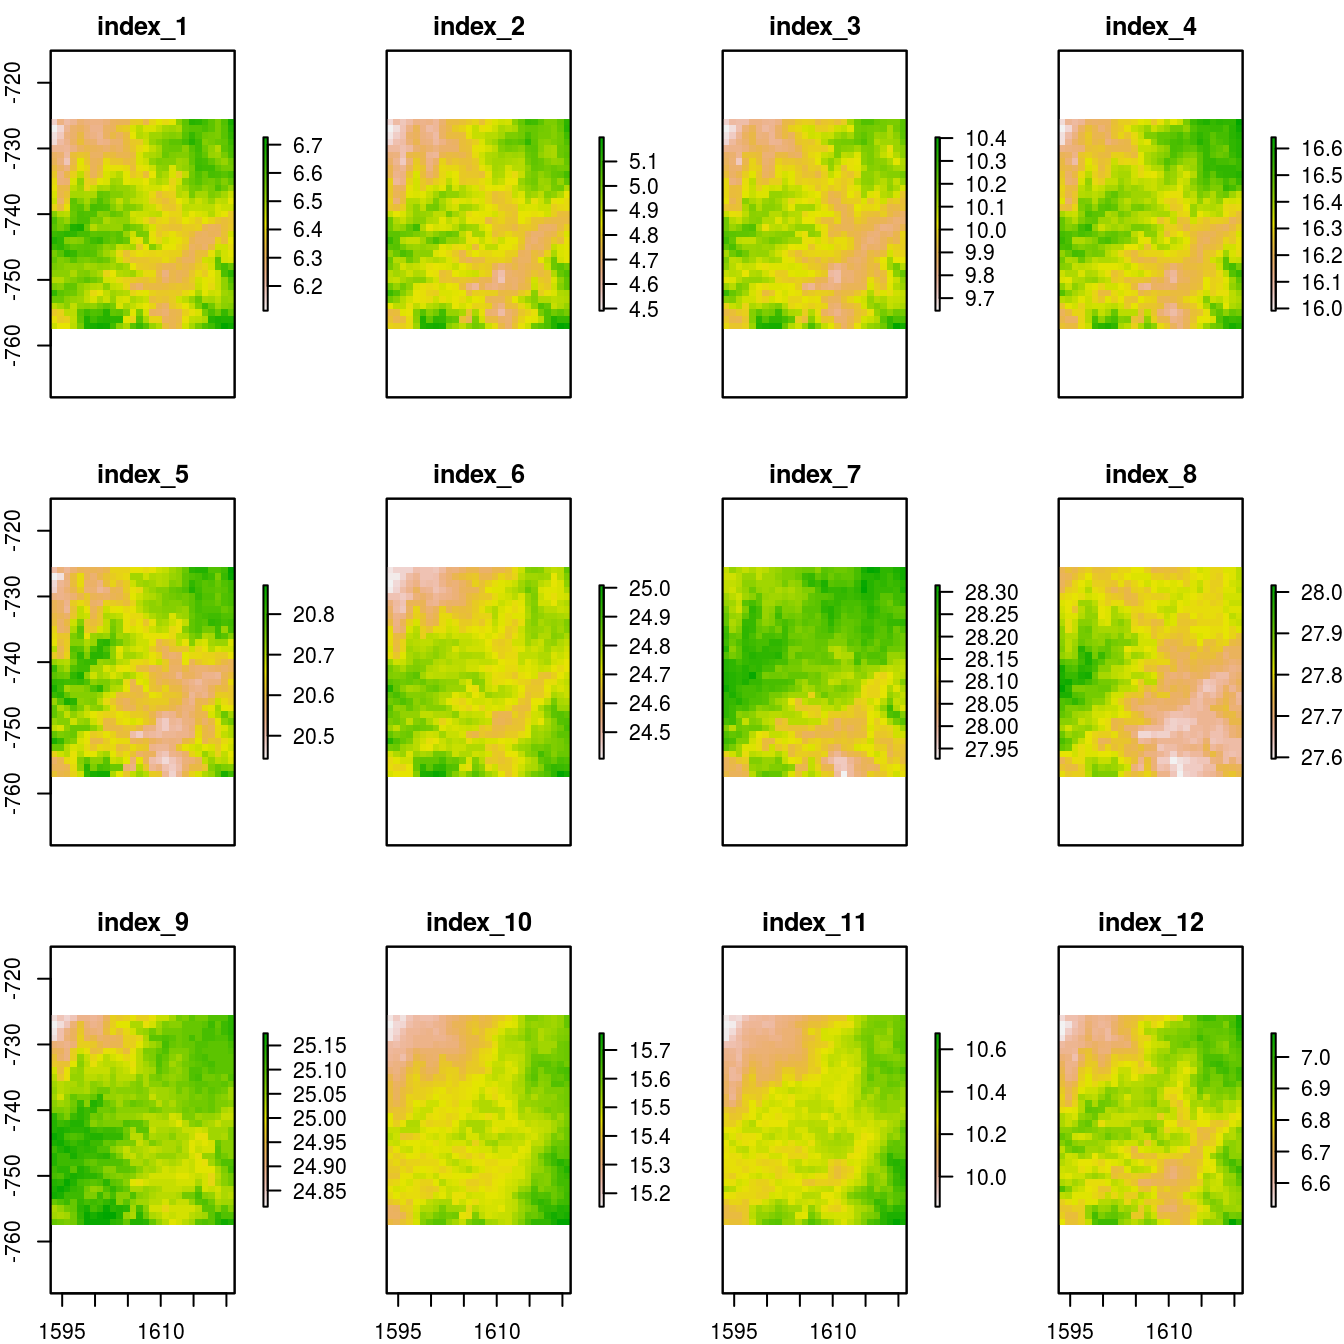
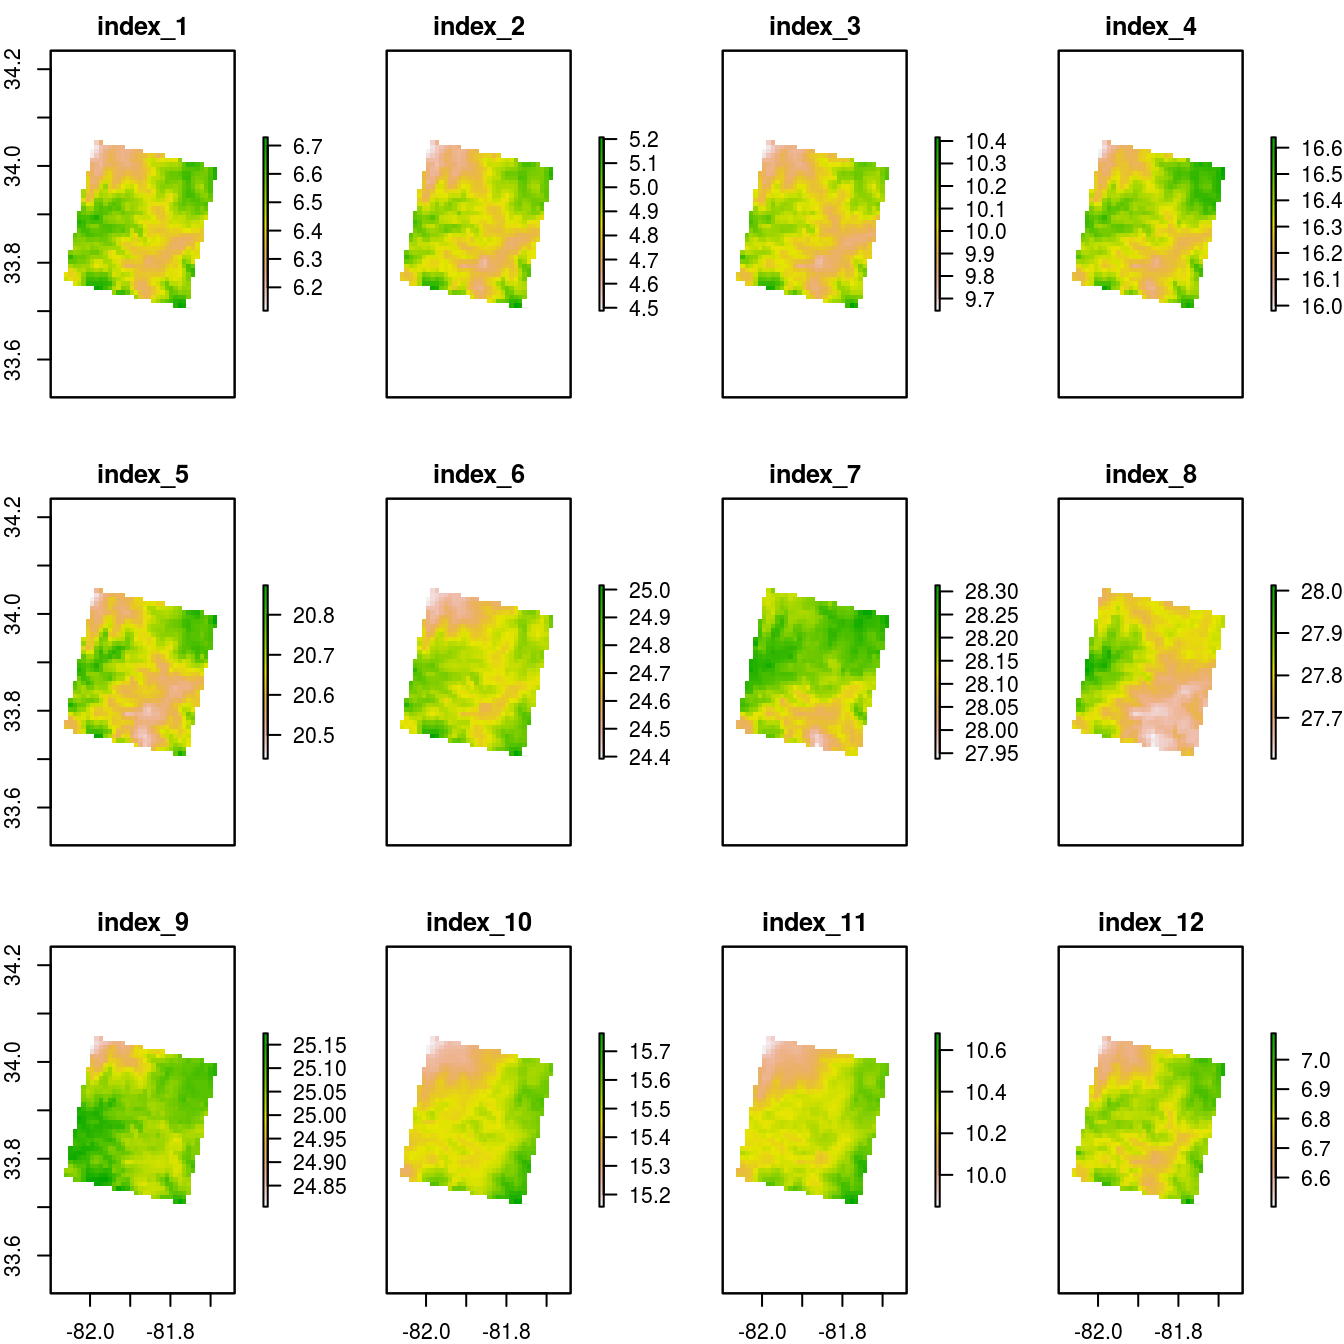
set correct projection

diff --git a/docs/articles/daymetr-vignette.html b/docs/articles/daymetr-vignette.html
@@ -266,7 +266,7 @@
 <div class="sourceCode" id="cb9"><pre class="sourceCode r"><code class="sourceCode r"><a class="sourceLine" id="cb9-1" data-line-number="1"><span class="co"># read in the demo data from the package for speed</span></a>
 <a class="sourceLine" id="cb9-2" data-line-number="2">r &lt;-<span class="st"> </span>raster<span class="op">::</span><span class="kw"><a href="https://www.rdocumentation.org/packages/raster/topics/stack">stack</a></span>(<span class="kw"><a href="https://www.rdocumentation.org/packages/base/topics/system.file">system.file</a></span>(<span class="dt">package =</span> <span class="st">"daymetr"</span>,<span class="st">"extdata/tmin_monavg_1980_ncss.nc"</span>))</a>
 <a class="sourceLine" id="cb9-3" data-line-number="3"></a>
-<a class="sourceLine" id="cb9-4" data-line-number="4"><span class="co"># to set the correct projection use</span></a>
+<a class="sourceLine" id="cb9-4" data-line-number="4"><span class="co"># to set the correct projection</span></a>
 <a class="sourceLine" id="cb9-5" data-line-number="5">raster<span class="op">::</span><span class="kw"><a href="https://www.rdocumentation.org/packages/raster/topics/projection">projection</a></span>(r) &lt;-<span class="st"> "+proj=lcc +lat_1=25 +lat_2=60 +lat_0=42.5 +lon_0=-100 +x_0=0 +y_0=0 +ellps=WGS84 +units=km +no_defs"</span></a>
 <a class="sourceLine" id="cb9-6" data-line-number="6"></a>
 <a class="sourceLine" id="cb9-7" data-line-number="7"><span class="co"># reproject to lat lon</span></a>
@@ -282,8 +282,15 @@
 <a class="sourceLine" id="cb10-4" data-line-number="4">                            <span class="dt">year =</span> <span class="dv">1980</span>,</a>
 <a class="sourceLine" id="cb10-5" data-line-number="5">                            <span class="dt">internal =</span> <span class="ot">TRUE</span>)</a>
 <a class="sourceLine" id="cb10-6" data-line-number="6"></a>
-<a class="sourceLine" id="cb10-7" data-line-number="7"><span class="co"># plot the mean temperature raster</span></a>
-<a class="sourceLine" id="cb10-8" data-line-number="8"><span class="kw"><a href="https://www.rdocumentation.org/packages/graphics/topics/plot">plot</a></span>(r_tmean)</a></code></pre></div>
+<a class="sourceLine" id="cb10-7" data-line-number="7"><span class="co"># to set the correct projection</span></a>
+<a class="sourceLine" id="cb10-8" data-line-number="8">raster<span class="op">::</span><span class="kw"><a href="https://www.rdocumentation.org/packages/raster/topics/projection">projection</a></span>(r_tmean) &lt;-<span class="st"> "+proj=lcc +lat_1=25 +lat_2=60 +lat_0=42.5 +lon_0=-100 +x_0=0 +y_0=0 +ellps=WGS84 +units=km +no_defs"</span></a>
+<a class="sourceLine" id="cb10-9" data-line-number="9"></a>
+<a class="sourceLine" id="cb10-10" data-line-number="10"><span class="co"># reproject to lat lon</span></a>
+<a class="sourceLine" id="cb10-11" data-line-number="11">r_tmean &lt;-<span class="st"> </span>raster<span class="op">::</span><span class="kw"><a href="https://www.rdocumentation.org/packages/raster/topics/projectRaster">projectRaster</a></span>(r_tmean, <span class="dt">crs =</span> <span class="st">"+init=epsg:4326"</span>)</a>
+<a class="sourceLine" id="cb10-12" data-line-number="12"></a>
+<a class="sourceLine" id="cb10-13" data-line-number="13"></a>
+<a class="sourceLine" id="cb10-14" data-line-number="14"><span class="co"># plot the mean temperature raster</span></a>
+<a class="sourceLine" id="cb10-15" data-line-number="15"><span class="kw"><a href="https://www.rdocumentation.org/packages/graphics/topics/plot">plot</a></span>(r_tmean)</a></code></pre></div>
 <p><img src="daymetr-vignette_files/figure-html/unnamed-chunk-11-1.png" width="672"></p>
 <p>I hope the vignette provided you with an overview of the capabilities of the daymetr package. Please report all bugs or feature requests on the project’s github page. If you found the software useful in your work please use the below reference to cite the package.</p>
 </div>
